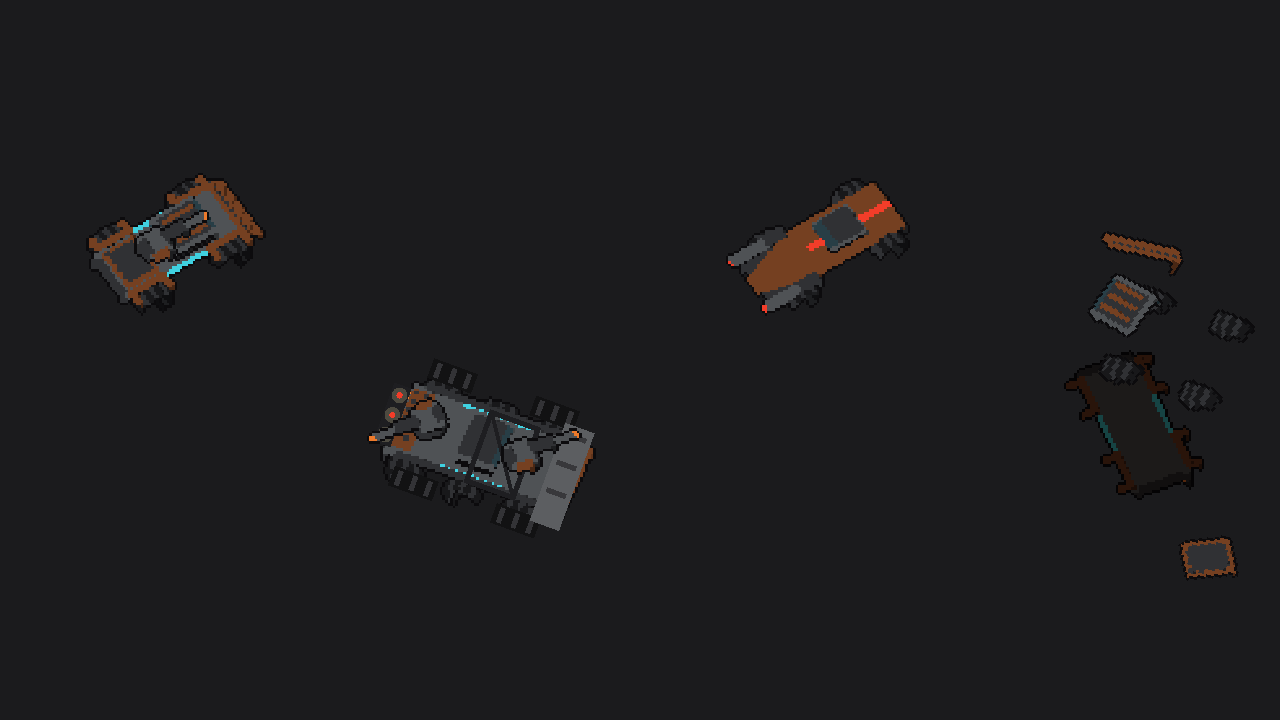
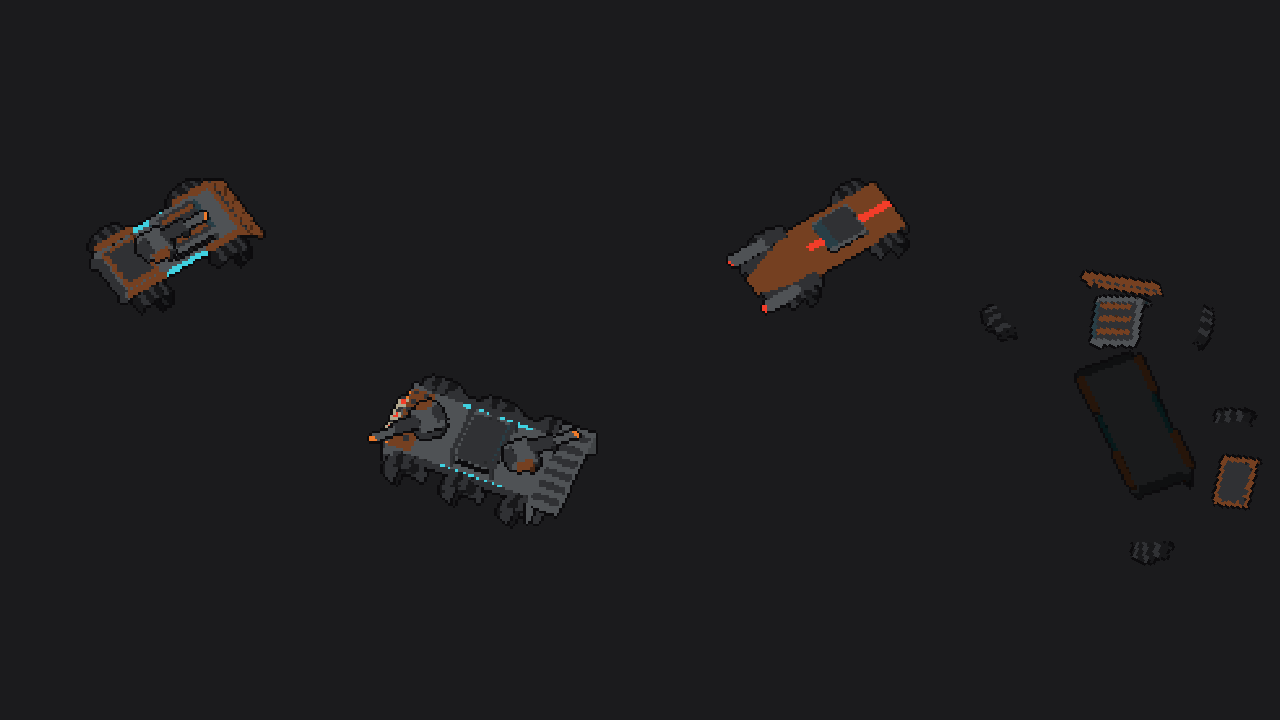
Art: previews (parts grid, wreck pieces), showcase capture, docs

diff --git a/docs/ART_PIPELINE.md b/docs/ART_PIPELINE.md
@@ -58,7 +58,15 @@ godot --headless --path . -s res://tests/art_sheet_test.gd
 - **Hulls:** `vehicle.gd` draws the Scrap Frame and Bulwark Frame from their sheets, and `enemy_rig.gd` draws the plain Outrider. Every other rig keeps the code-drawn look.
 - **Turrets:** each turret sheet picks its frame from its own aim and sits on its mount. Bullets still start from the unchanged gameplay pivot.
 - **Wreck:** every chunk except the chassis is flung outward from its offset for this heading. Each piece spins and fades over 1.4 s. The hull switches to the darkened chassis sheet, and fire, dust and the crew-haul flow are unchanged. A revive restores the full sheet.
-- **Part marks:** `art_marks()` reads the equipped parts and draws small overlays on the deck for:
+- **Part layers (voxel):** chassis models have a core (chassis, cab, rear plates, skirts) plus part layers, each built for that chassis's size:
+  - `drive:` street wheels, off-road tires, sport wheels, half-track
+  - `armor:` scrap, riot, spiked ram, composite, Outrider light plating
+  - extras: `nose_guns`, `nose_guns_hot`, `patch_kit`, `mine_rack`, `sensor_dish`, `roll_cage` (the cage is fitted to that chassis's cab)
+  - A layer is rendered together with the core, using per-pixel owner ids, and keeps only the pixels the layer actually shows. So it stacks on the core sheet with the core's occlusion baked in, with the same frame and the same ground anchor.
+  - `art_layers()` in `vehicle.gd` picks the layers from the equipped parts. A part without its own sheet (for example the Cowcatcher Ram) uses the stock sheet for its slot.
+- **Wreck pieces:** layers split into pieces, one per wheel or track, each with its own per-heading offsets. A wreck flings the core chunks (all but the chassis) plus every piece of the fitted layers. The hull switches to `<model>__chassis_burnt.png`, a soot palette where the lights go darker than the hull.
+- **Sheets per chassis:** `<model>__core.png` (the hull sprite), `<model>.png` (composite with the stock parts, for previews), `__<chunk>.png`, `__L_<layer>.png` and `__L_<layer>__<piece>.png`.
+- **Old part marks (replaced by the voxel layers above):** `art_marks()` reads the equipped parts and draws small overlays on the deck for:
   - drive: half-track, off-road tires, sport wheels
   - front armor: anything other than Scrap Plating
   - nose guns, white-hot while Overcharge or Deadeye is active
@@ -72,7 +80,7 @@ finer models at ~64x36 on screen; near-black outline all round; separate chunk s
 for the wreck.
 
 ## Open
-- Part marks are flat 2D overlays, not voxel sheets, so they don't follow the tilt exactly.
+- Layers stack in a fixed order (drive, armor, extras), so where two layers overlap the later one always wins.
 - No art yet for the Courier Frame, the other enemy rigs, or weapons other than the pintle.
 - Chunks render on their own, so a chunk sheet shows faces that the composite hides
   (correct for flying debris).
